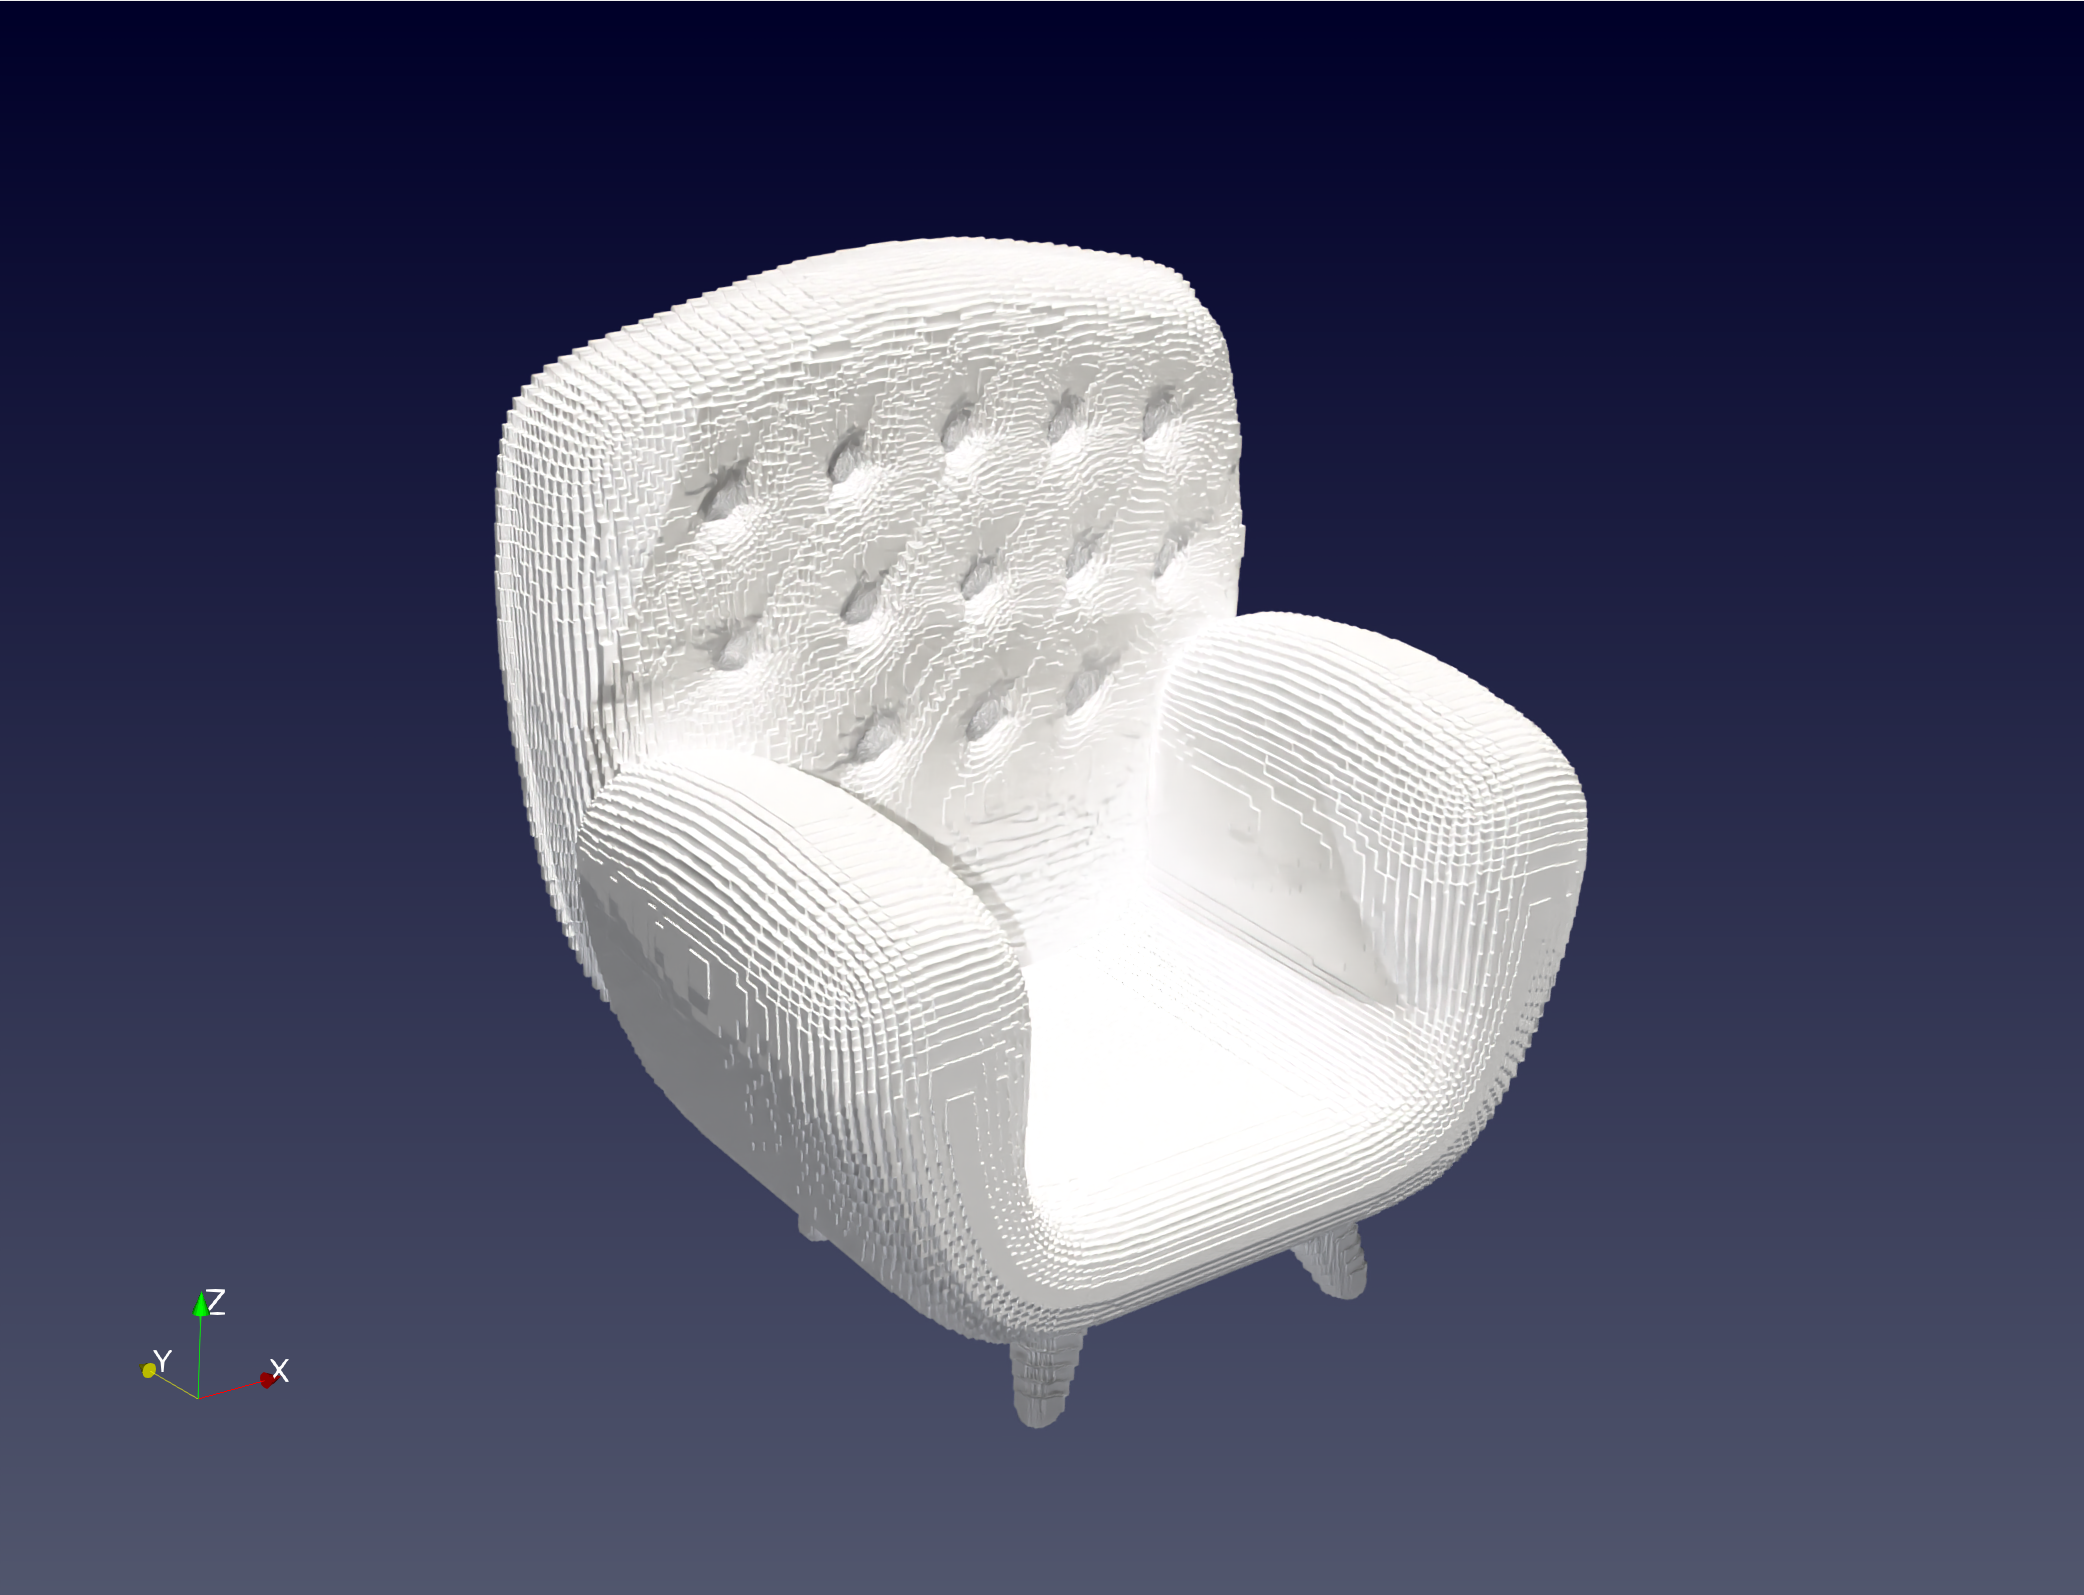
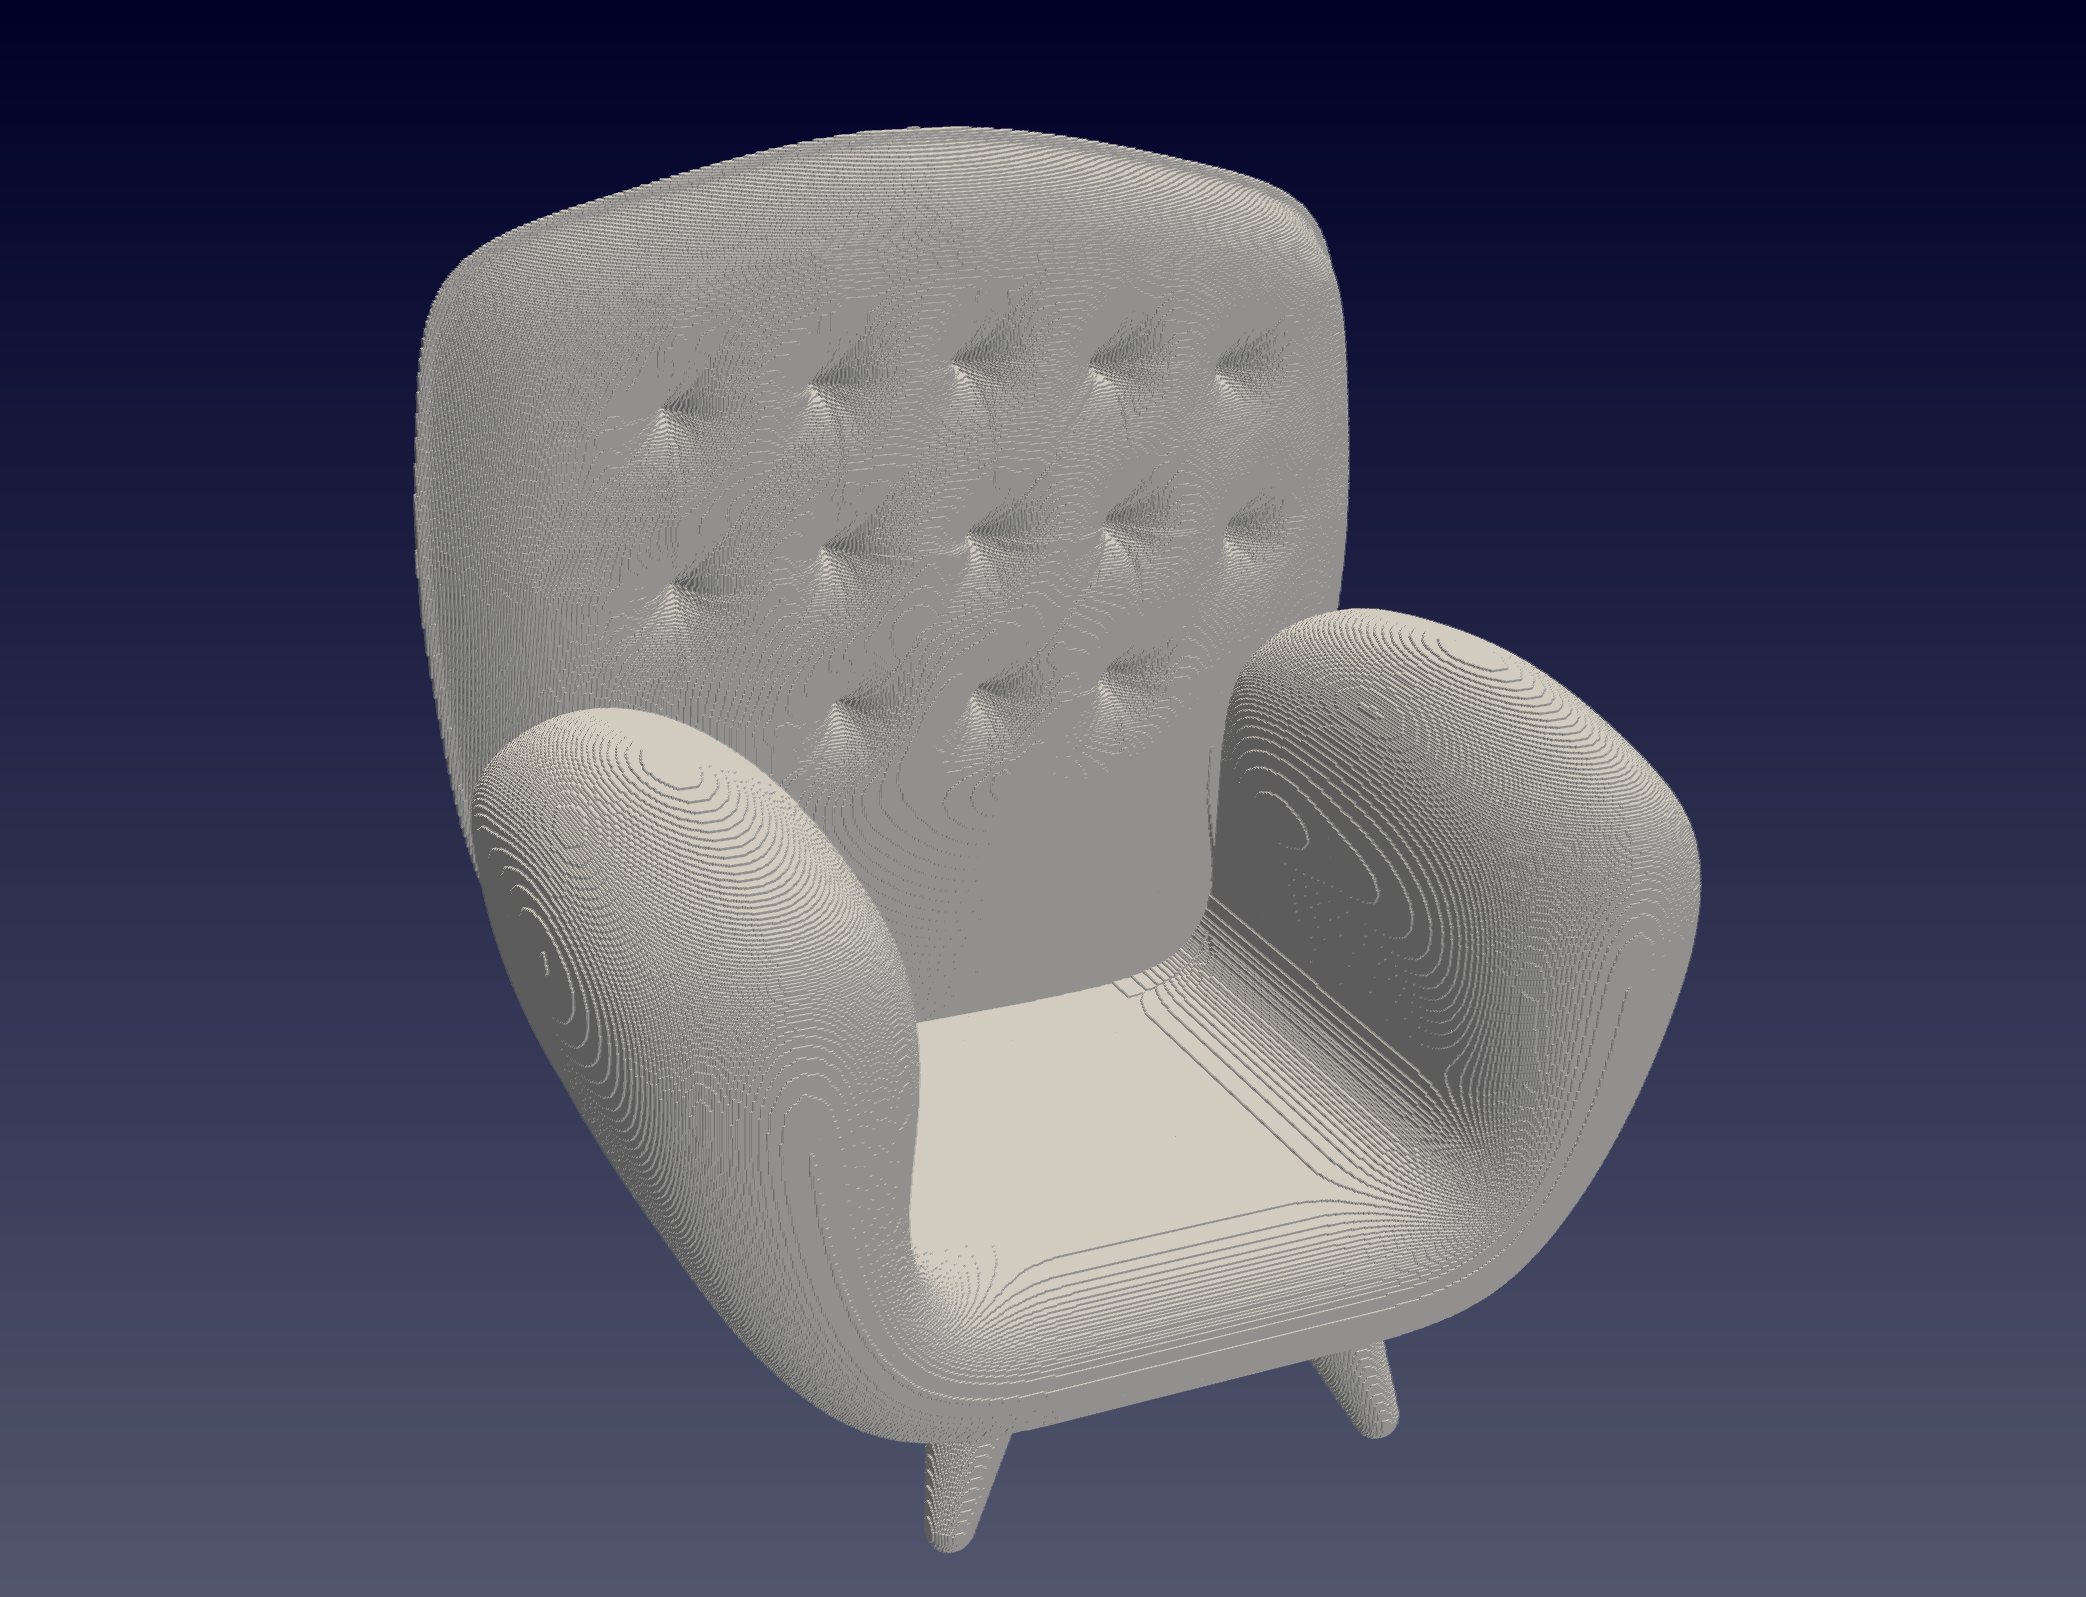
update_algorithm

diff --git a/stl2voxel/VoxelGrid.cpp b/stl2voxel/VoxelGrid.cpp
@@ -291,11 +291,11 @@ void VoxelGrid::ComfirmSurfaceVoxels(const STLMesh *stlmesh)
 
 
                     if(
-                        // #define AABB
+                        #define AABB
                         #ifdef AABB
                             aabbCheck(minTri, maxTri, minVoxel, maxVoxel)
                         #endif
-                        #define INTERSECT
+                        // #define INTERSECT
                         #ifdef INTERSECT
                             voxelIntersectsTriangle(minVoxel, maxVoxel, triangle)
                         #endif

diff --git a/README.md b/README.md
@@ -19,10 +19,12 @@ Then, you can run the program with the following command:
 
 ## Results
 
-The model before voxelization(.stl):
-![image](./doc/stl.png)
-The model after voxelization(.vtk):
-![image](./doc/256.png)
+<div style="display: flex; justify-content: space-between;">
+    <img src="./doc/stl.png" alt="Image 1" style="width: 48%;">
+    <img src="./doc/512.png" alt="Image 2" style="width: 48%;">
+</div>
+<p style="text-align: center;">Figure 1: The original model (left) and the voxelized model (right) of sofa model.</p>
+
 
 ## Authors
 * Hajer Zhang, IDEAS, DLUT, China
@@ -31,4 +33,12 @@ The model after voxelization(.vtk):
 
 ## Update
 * 2024.12.23：Add a [Viewer](./Viewer.py) based on the VTK, pyvista, pyvistaqt, and PyQt5. But the viewer is not stable now.
+* 2024.12.25：Update the new algorithm for voxelization, and the new algorithm is more efficient than the previous one.
+<div style="display: flex; justify-content: space-between;">
+    <img src="./doc/before.png" alt="Image 1" style="width: 48%;">
+    <img src="./doc/after.png" alt="Image 2" style="width: 48%;">
+</div>
+
+<p style="text-align: center;">Figure 2: Comparison of the algorithm before (left) and after (right) of bunny model.</p>
+
 
